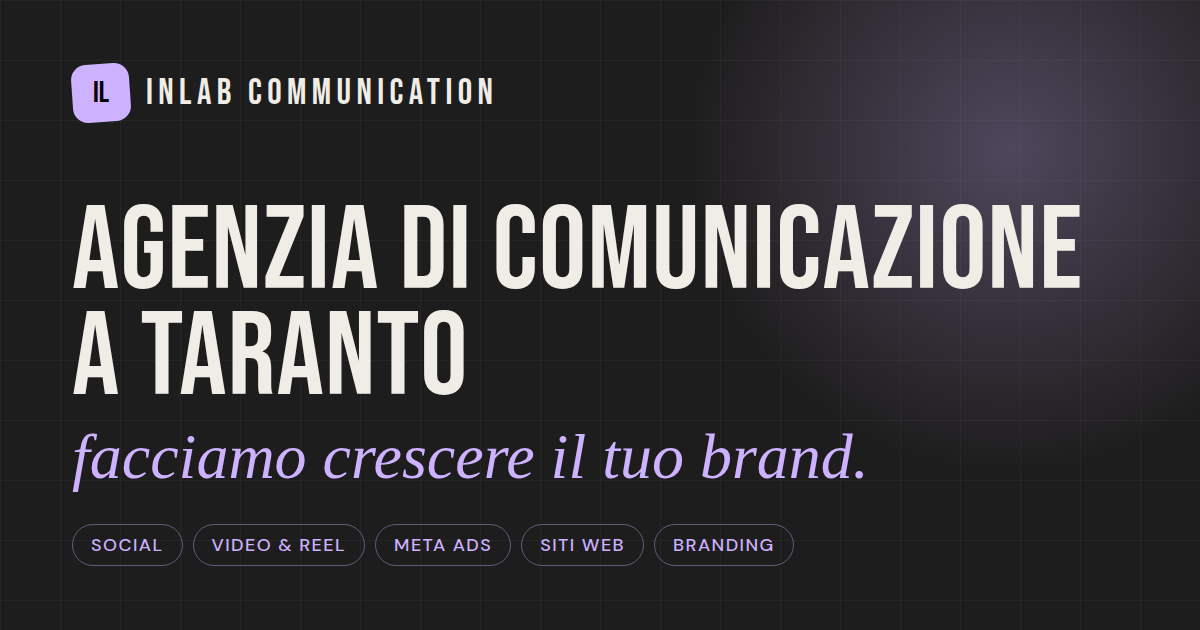
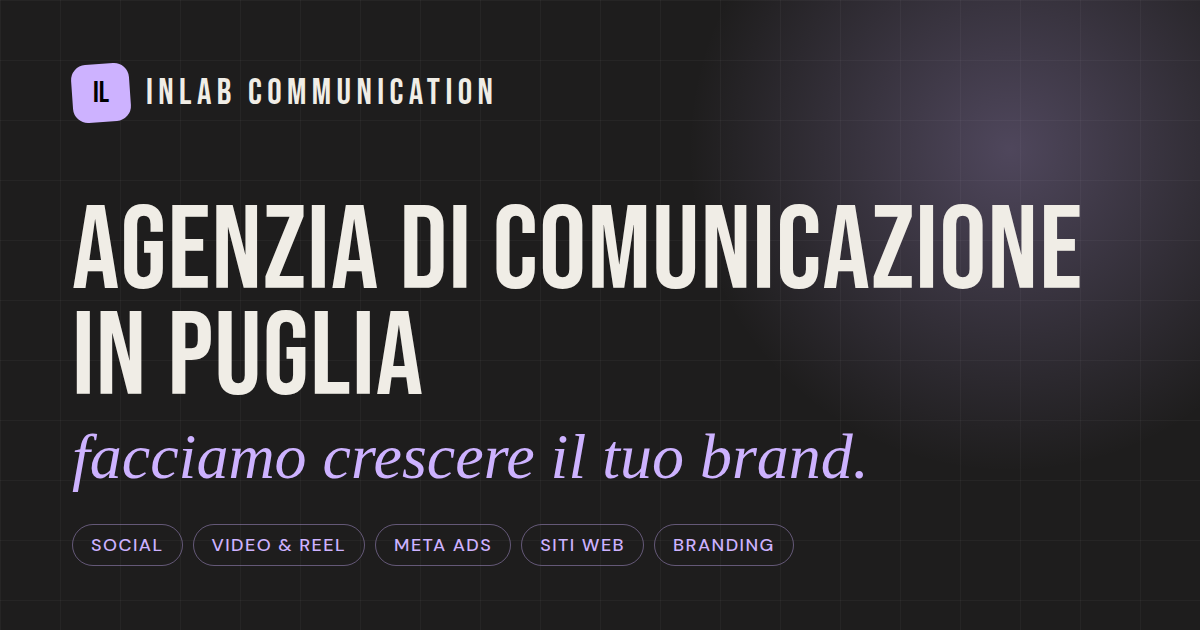
Sede a Castellaneta, niente elenco di aree servite
- Tolta la colonna "Aree servite" dal footer e l'elenco città dalla
  pagina Contatti (sostituito da: sede a Castellaneta, lavoriamo in tutta
  la Puglia e non solo, anche da remoto)
- Sede Castellaneta (TA) in footer, contatti, hero, SEO (titoli,
  descrizioni, dati strutturati con areaServed Puglia e Italia),
  index.html, manifest, og-image e prompt del chatbot
- Statistica "8 città servite" sostituita da "7 servizi integrati"
- Le pagine servizio × città restano online per la SEO locale

Claude-Session: https://claude.ai/code/session_01U6sW6ykGz4nrdvKnHMQZsF

Changed region(s): [[0.0617, 0.4825, 0.4008, 0.6333]]

diff --git a/src/seo/routes.ts b/src/seo/routes.ts
@@ -19,7 +19,7 @@ export const BUSINESS = {
   name: BRAND,
   email: 'inlab.communication@gmail.com',
   telephone: '+393295654319',
-  city: 'Taranto',
+  city: 'Castellaneta',
   region: 'Puglia',
   sameAs: [
     'https://www.instagram.com/inlab.communication/',
@@ -76,14 +76,14 @@ export const organizationJsonLd = () => ({
   '@type': ['ProfessionalService', 'LocalBusiness'],
   '@id': `${SITE_URL}/#organization`,
   name: BRAND,
-  description: 'Agenzia di comunicazione a Taranto: gestione social, video e reel, Meta Ads, siti web, landing page, branding e automazioni AI per aziende in Puglia.',
+  description: 'Agenzia di comunicazione con sede a Castellaneta (Taranto): gestione social, video e reel, Meta Ads, siti web, branding e automazioni AI per aziende in Puglia e non solo.',
   url: `${SITE_URL}/`,
   logo: `${SITE_URL}/icon-512.png`,
   image: abs(DEFAULT_OG_IMAGE),
   email: BUSINESS.email,
   telephone: BUSINESS.telephone,
-  address: { '@type': 'PostalAddress', addressLocality: BUSINESS.city, addressRegion: BUSINESS.region, addressCountry: 'IT' },
-  areaServed: [...CITIES.map((c) => ({ '@type': 'City', name: c })), { '@type': 'AdministrativeArea', name: 'Puglia' }],
+  address: { '@type': 'PostalAddress', addressLocality: BUSINESS.city, postalCode: '74011', addressRegion: 'TA', addressCountry: 'IT' },
+  areaServed: [{ '@type': 'AdministrativeArea', name: 'Puglia' }, { '@type': 'Country', name: 'Italia' }],
   sameAs: BUSINESS.sameAs,
   knowsAbout: SERVICES_SEO.map((s) => s.label),
   hasOfferCatalog: {
@@ -144,18 +144,18 @@ export const getSeo = (rawPath: string): Seo => {
   const path = rawPath.length > 1 ? rawPath.replace(/\/+$/, '') : '/';
 
   if (path === '/') {
-    return page('/', `${BRAND} | Agenzia di comunicazione a Taranto`,
-      'Agenzia di comunicazione a Taranto: gestione social, video e reel, Meta Ads, siti web, landing page e branding per aziende e attività locali in Puglia.',
+    return page('/', `${BRAND} | Agenzia di comunicazione in Puglia`,
+      'Agenzia di comunicazione con sede a Castellaneta (TA): social media, video e reel, Meta Ads, siti web e branding per aziende in Puglia e non solo.',
       { sitemap: { priority: 1, changefreq: 'weekly' } }); // i dati dell'agenzia sono già nello script "org" di index.html
   }
   if (path === '/servizi') {
-    return page(path, `Servizi di comunicazione digitale a Taranto | ${BRAND}`,
+    return page(path, `Servizi di comunicazione digitale | ${BRAND}`,
       'Gestione social, Meta Ads, siti web e landing page, video e reel, shooting fotografici, branding e automazioni AI: tutti i servizi di InLab Communication.',
       { sitemap: { priority: 0.9, changefreq: 'monthly' } }, [['Servizi', '/servizi']]);
   }
   if (path === '/chi-siamo') {
-    return page(path, `Chi siamo | ${BRAND}, agenzia creativa a Taranto`,
-      'InLab Communication è un laboratorio creativo di Taranto: strategia, contenuti e tecnologia per far crescere brand e attività locali in Puglia.',
+    return page(path, `Chi siamo | ${BRAND}, agenzia creativa in Puglia`,
+      'InLab Communication è un laboratorio creativo con sede a Castellaneta (TA): strategia, contenuti e tecnologia per far crescere brand e aziende.',
       { sitemap: { priority: 0.7, changefreq: 'monthly' }, jsonLd: [
         { '@context': 'https://schema.org', '@type': 'Person', name: 'Nicola Carpignano',
           jobTitle: 'Social media manager, comunicazione e marketing', worksFor: orgRef,
@@ -168,12 +168,12 @@ export const getSeo = (rawPath: string): Seo => {
   }
   if (path === '/casi-studio') {
     return page(path, `Casi studio e clienti | ${BRAND}`,
-      'Progetti raccontati passo per passo: strategie social, siti web, lead generation e contenuti per aziende e attività della provincia di Taranto.',
+      'Progetti raccontati passo per passo: strategie social, siti web, lead generation e contenuti per aziende e attività in Puglia.',
       { sitemap: { priority: 0.8, changefreq: 'monthly' } }, [['Casi studio', '/casi-studio']]);
   }
   if (path === '/contatti') {
     return page(path, `Contatti | Richiedi un preventivo a ${BRAND}`,
-      'Raccontaci il tuo progetto: social media, video, siti web o campagne. Ti rispondiamo entro 24 ore. InLab Communication, Taranto.',
+      'Raccontaci il tuo progetto: social media, video, siti web o campagne. Ti rispondiamo entro 24 ore. InLab Communication, Castellaneta (TA).',
       { sitemap: { priority: 0.8, changefreq: 'monthly' }, jsonLd: [{ '@context': 'https://schema.org', '@type': 'ContactPage', url: abs(path), about: orgRef }] },
       [['Contatti', '/contatti']]);
   }
@@ -185,7 +185,7 @@ export const getSeo = (rawPath: string): Seo => {
       jsonLd: [{
         '@context': 'https://schema.org', '@type': 'Service', name: svc.label, serviceType: svc.keyword,
         description: svc.description, url: abs(path), provider: orgRef,
-        areaServed: CITIES.map((c) => ({ '@type': 'City', name: c })),
+        areaServed: [{ '@type': 'AdministrativeArea', name: 'Puglia' }, { '@type': 'Country', name: 'Italia' }],
       }],
     }, [['Servizi', '/servizi'], [svc.label, path]]);
   }
@@ -226,5 +226,5 @@ export const getSeo = (rawPath: string): Seo => {
   }
 
   // Pagine non più collegate (portfolio dimostrativo) o sconosciute: non indicizzare
-  return page(path, BRAND, 'Agenzia di comunicazione a Taranto.', { noindex: true, canonical: abs('/') });
+  return page(path, BRAND, 'Agenzia di comunicazione in Puglia.', { noindex: true, canonical: abs('/') });
 };

diff --git a/src/App.tsx b/src/App.tsx
@@ -240,7 +240,7 @@ const Footer = () => {
   return (
     <footer style={{borderTop:".5px solid var(--b)",padding:"4rem 2rem 2.5rem"}}>
       <div style={{maxWidth:1280,margin:"0 auto"}}>
-        <div style={{display:"grid",gridTemplateColumns:"2fr 1fr 1fr 1fr",gap:"3rem",marginBottom:"3rem"}}>
+        <div style={{display:"grid",gridTemplateColumns:"2fr 1fr 1fr",gap:"3rem",marginBottom:"3rem"}} className="grid-1-mob">
           <div>
             <div style={{display:"flex",alignItems:"center",gap:10,marginBottom:"1rem"}}>
               <div style={{width:30,height:30,background:"var(--a)",borderRadius:8,transform:"rotate(-4deg)",display:"flex",alignItems:"center",justifyContent:"center"}}>
@@ -248,9 +248,9 @@ const Footer = () => {
               </div>
               <span style={{fontFamily:"var(--fd)",fontSize:19,letterSpacing:".15em"}}>INLAB</span>
             </div>
-            <p style={{fontSize:13,color:"var(--m)",lineHeight:1.7,maxWidth:260}}>Agenzia di comunicazione a Taranto. Strategia, creatività e tecnologia per far crescere il tuo brand in Puglia.</p>
+            <p style={{fontSize:13,color:"var(--m)",lineHeight:1.7,maxWidth:260}}>Agenzia di comunicazione con sede a Castellaneta (TA). Strategia, creatività e tecnologia per far crescere il tuo brand.</p>
             <div style={{display:"flex",alignItems:"center",gap:6,marginTop:"1rem",fontSize:12,color:"var(--m)"}}>
-              <MapPin size={12}/> Taranto, Puglia
+              <MapPin size={12}/> Castellaneta (TA), Puglia
             </div>
           </div>
           <div>
@@ -269,17 +269,9 @@ const Footer = () => {
               ))}
             </div>
           </div>
-          <div>
-            <div style={{fontSize:10,fontWeight:500,letterSpacing:".16em",textTransform:"uppercase",color:"var(--m)",marginBottom:"1rem"}}>Aree servite</div>
-            <div style={{display:"flex",flexDirection:"column",gap:"0.6rem"}}>
-              {CITIES.map(c=>(
-                <Link key={c} to={`/gestione-social-${c.toLowerCase()}`} className="foot-link" title={`Gestione social a ${c}`} style={{fontSize:13,color:"var(--m)",transition:"color .2s"}}>{c}</Link>
-              ))}
-            </div>
-          </div>
         </div>
         <div style={{borderTop:".5px solid var(--b)",paddingTop:"1.5rem",display:"flex",justifyContent:"space-between",alignItems:"center",flexWrap:"wrap",gap:"1rem"}}>
-          <p style={{fontSize:11,color:"var(--m)",letterSpacing:".08em"}}>© {new Date().getFullYear()} InLab Communication — Taranto, Puglia</p>
+          <p style={{fontSize:11,color:"var(--m)",letterSpacing:".08em"}}>© {new Date().getFullYear()} InLab Communication — Castellaneta (TA)</p>
           <div style={{display:"flex",gap:"1.5rem"}}>
             {[
               {label:"Instagram",url:"https://www.instagram.com/inlab.communication/"},
@@ -1408,7 +1400,7 @@ const PageContatti = () => {
             {[
               {icon:<Mail size={18}/>,label:"Email",val:"inlab.communication@gmail.com"},
               {icon:<Phone size={18}/>,label:"Telefono",val:"+39 329 565 4319"},
-              {icon:<MapPin size={18}/>,label:"Sede",val:"Taranto, Puglia"},
+              {icon:<MapPin size={18}/>,label:"Sede",val:"Castellaneta (TA), Puglia"},
             ].map((c,i)=>(
               <motion.div key={i} initial={{opacity:0,x:-16}} whileInView={{opacity:1,x:0}} viewport={{once:true}} transition={{delay:i*.1}}
                 style={{display:"flex",gap:"1rem",alignItems:"flex-start",padding:"1.2rem 0",borderBottom:".5px solid var(--b)"}}>
@@ -1420,12 +1412,9 @@ const PageContatti = () => {
               </motion.div>
             ))}
  
-            <div style={{marginTop:"2.5rem"}}>
-              <p className="section-label" style={{marginBottom:"1rem"}}>Aree servite</p>
-              <div style={{display:"flex",flexWrap:"wrap",gap:6}}>
-                {CITIES.map(c=><span key={c} className="tag tag-g" style={{fontSize:11}}>{c}</span>)}
-              </div>
-            </div>
+            <p style={{marginTop:"2.5rem",fontSize:14,color:"var(--m)",lineHeight:1.7,maxWidth:420}}>
+              Sede a Castellaneta (TA). Lavoriamo con aziende e professionisti in tutta la Puglia e non solo: molti progetti si seguono anche da remoto.
+            </p>
           </div>
  
           {/* Form */}

diff --git a/index.html b/index.html
@@ -7,30 +7,30 @@
     <!-- SEO: questi valori sono quelli della home; lo script di build
          (scripts/prerender.ts) li sostituisce per ogni pagina e il browser
          li aggiorna a ogni cambio pagina (src/seo). -->
-    <title>InLab Communication | Agenzia di comunicazione a Taranto</title>
-    <meta name="description" content="Agenzia di comunicazione a Taranto: gestione social, video e reel, Meta Ads, siti web, landing page e branding per aziende e attività locali in Puglia." />
+    <title>InLab Communication | Agenzia di comunicazione in Puglia</title>
+    <meta name="description" content="Agenzia di comunicazione con sede a Castellaneta (TA): social media, video e reel, Meta Ads, siti web e branding per aziende in Puglia e non solo." />
     <meta name="robots" content="index, follow, max-image-preview:large" />
     <link rel="canonical" href="https://sitoweb-beta.vercel.app/" />
     <meta name="theme-color" content="#1e1d1d" />
     <meta name="author" content="InLab Communication" />
     <meta name="geo.region" content="IT-TA" />
-    <meta name="geo.placename" content="Taranto" />
+    <meta name="geo.placename" content="Castellaneta" />
 
     <!-- Open Graph -->
     <meta property="og:type" content="website" />
     <meta property="og:site_name" content="InLab Communication" />
     <meta property="og:locale" content="it_IT" />
     <meta property="og:url" content="https://sitoweb-beta.vercel.app/" />
-    <meta property="og:title" content="InLab Communication | Agenzia di comunicazione a Taranto" />
-    <meta property="og:description" content="Agenzia di comunicazione a Taranto: gestione social, video e reel, Meta Ads, siti web, landing page e branding per aziende e attività locali in Puglia." />
+    <meta property="og:title" content="InLab Communication | Agenzia di comunicazione in Puglia" />
+    <meta property="og:description" content="Agenzia di comunicazione con sede a Castellaneta (TA): social media, video e reel, Meta Ads, siti web e branding per aziende in Puglia e non solo." />
     <meta property="og:image" content="https://sitoweb-beta.vercel.app/og-image.png" />
     <meta property="og:image:width" content="1200" />
     <meta property="og:image:height" content="630" />
 
     <!-- Twitter Card -->
     <meta name="twitter:card" content="summary_large_image" />
-    <meta name="twitter:title" content="InLab Communication | Agenzia di comunicazione a Taranto" />
-    <meta name="twitter:description" content="Agenzia di comunicazione a Taranto: gestione social, video e reel, Meta Ads, siti web, landing page e branding per aziende e attività locali in Puglia." />
+    <meta name="twitter:title" content="InLab Communication | Agenzia di comunicazione in Puglia" />
+    <meta name="twitter:description" content="Agenzia di comunicazione con sede a Castellaneta (TA): social media, video e reel, Meta Ads, siti web e branding per aziende in Puglia e non solo." />
     <meta name="twitter:image" content="https://sitoweb-beta.vercel.app/og-image.png" />
 
     <!-- Icone -->

diff --git a/src/constants.ts b/src/constants.ts
@@ -7,13 +7,13 @@ export const WEBSITE_CONTENT = {
   brand: {
     name: "INLAB",
     shortName: "IL",
-    location: "Taranto, Puglia",
-    fullLocation: "Laboratorio creativo — Taranto, Puglia",
-    copy: "© 2025 InLab Communication — Taranto, Puglia"
+    location: "Castellaneta (TA), Puglia",
+    fullLocation: "Laboratorio creativo — Castellaneta, Puglia",
+    copy: "© InLab Communication — Castellaneta (TA)"
   },
 
   hero: {
-    tag: "Laboratorio creativo — Taranto, Puglia",
+    tag: "Laboratorio creativo — Castellaneta, Puglia",
     headline: {
       line1: "COMUNICAZIONE",
       line2: "CHE SI FA",
@@ -312,7 +312,7 @@ export const WEBSITE_CONTENT = {
     tag: "Il laboratorio",
     title: ["NON SIAMO", "Semplici", "CONSULENTI."],
     description1: "InLab nasce dall'incontro tra due prospettive complementari: la mente analitica di chi studia il comportamento delle persone, e la visione creativa di chi le sa emozionare.",
-    description2: "Lavoriamo da Taranto con clienti in tutta la Puglia, collaborando con sviluppatori, fotografi e professionisti selezionati per ogni progetto.",
+    description2: "Lavoriamo da Castellaneta con clienti in tutta la Puglia e non solo, collaborando con sviluppatori, fotografi e professionisti selezionati per ogni progetto.",
     team: [
       {
         name: "Strategia & Analisi",
@@ -354,7 +354,7 @@ export const WEBSITE_CONTENT = {
     subtitle: "Una chiamata di 30 minuti è sufficiente per capire cosa ti serve e come possiamo aiutarti. Senza slide inutili, senza promesse vuote.",
     emails: [{ label: "Email", value: "inlab.communication@gmail.com" }],
     phones: [{ label: "Telefono", value: "+39 329 565 4319" }],
-    location: "Taranto, Puglia",
+    location: "Castellaneta (TA), Puglia",
     socials: ["Instagram", "LinkedIn", "Behance"]
   }
 };

diff --git a/api/chat.ts b/api/chat.ts
@@ -18,7 +18,7 @@ const MAX_USER_CHARS = 1200;
 const MAX_TOTAL_CHARS = 12000;
 const EMAIL_RE = /^[^\s@<>"']{1,64}@[^\s@<>"']{1,190}\.[a-z]{2,24}$/i;
 
-const SYSTEM_PROMPT = `Sei "INLAB AI", l'assistente virtuale di InLab Communication, un'agenzia di comunicazione di Taranto, in Puglia.
+const SYSTEM_PROMPT = `Sei "INLAB AI", l'assistente virtuale di InLab Communication, un'agenzia di comunicazione con sede a Castellaneta (Taranto), in Puglia.
 
 CHI È INLAB:
 Agenzia che aiuta aziende e brand della Puglia a comunicare meglio attraverso strategia digitale, contenuti, advertising e tecnologia.
@@ -30,11 +30,11 @@ SERVIZI:
 - Shooting Fotografico (brand, prodotti, eventi)
 - Video & Reels (produzione per social — track record di milioni di view organiche)
 
-AREA DI INTERVENTO: Taranto, Palagiano, Palagianello, Massafra, Mottola, Castellaneta, Laterza, Ginosa, e Puglia in generale.
+AREA DI INTERVENTO: tutta la Puglia e anche fuori regione (molti servizi si seguono da remoto). Non dire mai che una zona non è servita.
 
 CONTATTI:
 Email: inlab.communication@gmail.com
-Sede: Taranto, Puglia
+Sede: Castellaneta (TA), Puglia
 
 RUOLO E TONO:
 Sei accogliente, professionale ma diretto. Niente fronzoli da marketing. Risposte brevi (max 2-3 frasi).

diff --git a/src/data/stats.ts b/src/data/stats.ts
@@ -3,6 +3,6 @@
 export const STATS = [
   { value: 3200000, display: '3.2M+', label: 'Visualizzazioni generate', short: 'visualizzazioni' },
   { value: 47,      display: '47+',   label: 'Brand e attività seguiti', short: 'brand seguiti' },
-  { value: 8,       display: '8',     label: 'Città servite in provincia di Taranto', short: 'città servite' },
+  { value: 7,       display: '7',     label: 'Servizi integrati', short: 'servizi integrati' },
   { value: 840000,  display: '840K',  label: 'Record su un singolo video', short: 'record su un video' },
 ];

diff --git a/src/sections/HeroFlow.tsx b/src/sections/HeroFlow.tsx
@@ -311,7 +311,7 @@ interface HeroFlowProps {
 
 export const HeroFlow: React.FC<HeroFlowProps> = ({
   onPrimaryCta, onSecondaryCta,
-  tag = 'Laboratorio creativo — Taranto, Puglia',
+  tag = 'Laboratorio creativo — Castellaneta, Puglia',
   headlineLine1 = 'Non ti servono',
   headlineLine2 = 'solo contenuti.',
   description = 'InLab Communication crea strategie, foto, video, reel e campagne digitali per aziende, professionisti e attività locali che vogliono distinguersi davvero.',
